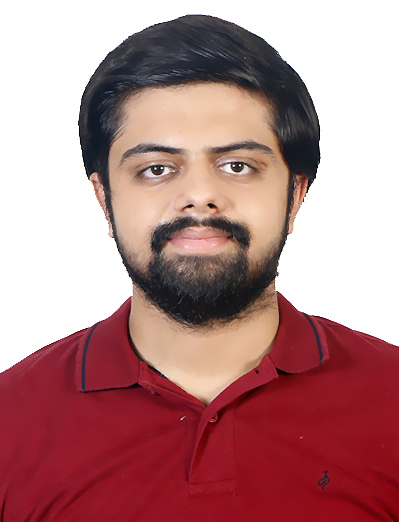
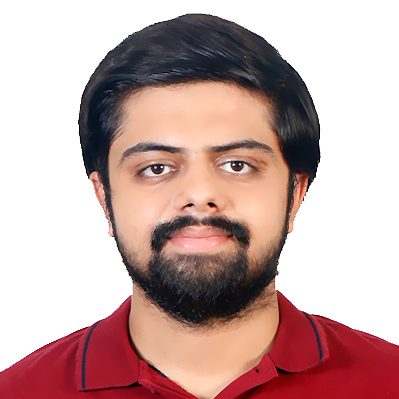
Updates sept 23 (#86)
* Updated team and alumni pages

* Added alumni to team page, added css for square images, updated team members

* Corrected typos

* LinkedIn profiles updated

* Revert "Changes related to news (#79)"

This reverts commit d161fba1425fb04dac9a138d8c58ec4eda8d1b05.

* Revert "Revert "Changes related to news (#79)""

This reverts commit 800aa71673183bc07624aff4212f72a4e5bea69e.

* Merge changes, conflicts resolved

* Updated co-guides

* Updated co-guides

* Updated co-guides

* Image deleted

---------

diff --git a/css/main.scss b/css/main.scss
@@ -166,3 +166,10 @@ firstp {}
     color: #fff;
     padding: 20px;
 }
+
+/*Square pictures*/
+.custom-padding{
+    width: 25%;
+    aspect-ratio: 1;
+    object-fit: cover;
+}

diff --git a/_pages/team.md b/_pages/team.md
@@ -8,10 +8,10 @@ permalink: /team/
 
 # Team Members
 
- **We are  looking for new PhD students, Postdocs, and Master students to join the team** [(see openings)]({{ site.url }}{{ site.baseurl }}/vacancies) **.**
+ **We are  looking for new PhD students, Postdocs, and Master students to join the team** [(see openings)]({{ site.url }}{{ site.baseurl }}/openings) **.**
 
 
-Jump to [Faculty](#faculty), [PhD Students](#phd-students), [Masters Students](#masters-students), [Alumni]({{ site.url }}{{ site.baseurl }}/alumni).
+Jump to [Faculty](#faculty), [PhD Students](#phd-students), [Masters Students](#masters-students), [Alumni](#alumni).
 
 ## Faculty
 {% for member in site.data.team_members %}
@@ -89,7 +89,7 @@ Jump to [Faculty](#faculty), [PhD Students](#phd-students), [Masters Students](#
 {% endif %}
 
 <div class="col-sm-6 clearfix">
-  <img src="{{ site.url }}{{ site.baseurl }}/images/teampic/{{ member.photo }}" class="img-responsive" object-fit="scale-down" width="25%" height="auto" style="float: left">
+  <img src="{{ site.url }}{{ site.baseurl }}/images/teampic/{{ member.photo }}" class="img-responsive float-left object-fit-cover custom-padding">
   {% if member.url.value == 1 %}
   <h4><a href="{{ member.url.link }}" target="_blank">{{ member.name }}</a></h4>
   
@@ -136,7 +136,7 @@ Jump to [Faculty](#faculty), [PhD Students](#phd-students), [Masters Students](#
 {% endif %}
 
 <div class="col-sm-6 clearfix">
-  <img src="{{ site.url }}{{ site.baseurl }}/images/teampic/{{ member.photo }}" class="img-responsive" object-fit="scale-down" width="25%" height="auto" style="float: left">
+  <img src="{{ site.url }}{{ site.baseurl }}/images/teampic/{{ member.photo }}" class="img-responsive float-left object-fit-cover custom-padding">
   {% if member.url.value == 1 %}
   <h4><a href="{{ member.url.link }}" target="_blank">{{ member.name }}</a></h4>
   <p class="right">
@@ -169,42 +169,92 @@ Jump to [Faculty](#faculty), [PhD Students](#phd-students), [Masters Students](#
 {% endif %}
 {% endif %}
 
-<!--
+<br>
+
 ## Alumni
-{% assign number_printed = 0 %}
-{% for member in site.data.team_members %}
+### Doctoral Students
+{% assign number_printed_phd = 0 %}
+{% for member in site.data.alumni %}
+{% if member.value == "phd" %} 
 
-{% assign even_odd = number_printed | modulo: 2 %}
 
-{% if even_odd == 0 %}
-<div class="col">
+{% assign even_odd_phd = number_printed_phd | modulo: 2 %}
+{% if even_odd_phd == 0 %}
+<div class="row">
 {% endif %}
 
-{% if member.type == 'alum' %}
-<div class="col-md-4">
+<div class="col-sm-6 clearfix">
+  <img src="{{ site.url }}{{ site.baseurl }}/images/teampic/{{ member.photo }}" class="img-responsive float-left object-fit-cover custom-padding">
   <h4>{{ member.name }}</h4>
+  <p class="right">
   <i>{{ member.info }}</i>
-  <i>{{ member.affiliation }}</i>
+  {% if member.thesis_link %}
+  Thesis: <a href="{{ member.thesis_link }}" target="_blank">{{ member.thesis }}</a>
+  {% elsif member.thesis != "NA" %}
+  Thesis: {{ member.thesis }}
+  {% endif %}
+  <i>Next: {{ member.next }}</i>
+  </p>
+</div>
+
+{% assign number_printed_phd = number_printed_phd | plus: 1 %}
+
+{% if even_odd_phd == 1 %}
 </div>
 {% endif %}
-
-{% assign number_printed = number_printed | plus: 1 %}
-
-{% if even_odd == 1 %}
-</div>
-{% endif %}
-
+{% endif %} 
 {% endfor %}
 
-{% assign even_odd = number_printed | modulo: 2 %}
-{% if even_odd == 1 %}
+
+{% assign even_odd_phd = number_printed_phd | modulo: 2 %}
+{% if even_odd_phd == 1 %}
 </div>
-{% endif %}
--->
+{% endif %} 
+
+
 
 <br/>
 
 
+### Masters Students
+{% assign number_printed_mtech = 0 %}
+{% for member in site.data.alumni %}
+{% if member.value == "mtech" %} 
+
+{% assign even_odd_mtech = number_printed_mtech | modulo: 2 %}
+
+{% if even_odd_mtech == 0 %}
+<div class="row">
+{% endif %}
+
+
+<div class="col-sm-6 clearfix">
+  <img src="{{ site.url }}{{ site.baseurl }}/images/teampic/{{ member.photo }}" class="img-responsive float-left object-fit-cover custom-padding">
+  <h4>{{ member.name }}</h4>
+  <p class="right">
+  <i>{{ member.info }}</i>
+  {% if member.thesis_link %}
+  Thesis: <a href="{{ member.thesis_link }}" target="_blank">{{ member.thesis }}</a>
+   {% elsif member.thesis != "NA" %}
+  Thesis: {{ member.thesis }}
+  {% endif %}
+  <i>Next: {{ member.next }}</i>
+  </p>
+</div>
+
+{% assign number_printed_mtech = number_printed_mtech | plus: 1 %}
+{% if even_odd_mtech == 1 %}
+</div>
+{% endif %}
+{% endif %}
+{% endfor %}
 
 
 
+{% assign even_odd_mtech = number_printed_mtech | modulo: 2 %}
+{% if even_odd_mtech == 1 %}
+</div>
+{% endif %}
+
+
+<br/>
